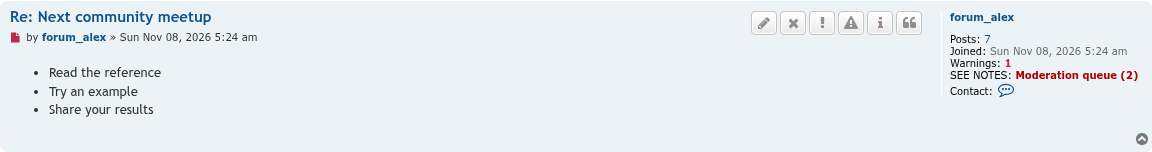
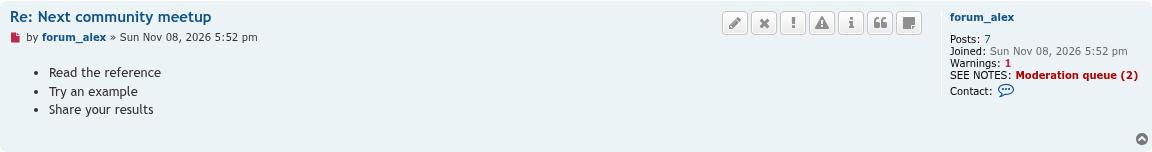
Replace NONE with a notes button next to posts and on profiles (#8)
* Replace NONE with a notes button next to posts and on profiles

The SEE NOTES line now shows only while a member has a current
reason. Staff get a Moderator notes button with the post buttons and a
link with the profile's user statistics, for every member; without a
current reason they open the Give a reason form. phpBB 4.0 draws post
button icons with Icon(), so the button has a template per branch.

* Retake screenshots for the notes button; add the 11/08/2026 update gallery

---------

diff --git a/styles/all/template/seenotes_reason_link.html b/styles/all/template/seenotes_reason_link.html
@@ -1,2 +1,2 @@
-{# The reason, or NONE, as a link to the notes. Pass the row with the SEENOTES_* values as "sn". #}
-{% if sn.U_SEENOTES %}<a href="{{ sn.U_SEENOTES }}"{% else %}<span{% endif %} class="seenotes-reason{% if sn.S_SEENOTES_NONE %} seenotes-none{% endif %}"{% if not sn.S_SEENOTES_NONE %} style="color: #{{ sn.SEENOTES_COLOR }};"{% endif %}{% if sn.SEENOTES_DESCRIPTION %} title="{{ sn.SEENOTES_DESCRIPTION }}"{% endif %}>{{ sn.SEENOTES_REASON }}{% if not sn.S_SEENOTES_NONE %} <span aria-hidden="true">({{ sn.SEENOTES_COUNT }})</span>{% endif %}<span class="sr-only">{% if not sn.S_SEENOTES_NONE %}, {{ sn.SEENOTES_COUNT_TEXT }}{% if sn.SEENOTES_DESCRIPTION %}: {{ sn.SEENOTES_DESCRIPTION }}{% endif %}{% endif %}{% if sn.U_SEENOTES %}. {{ sn.SEENOTES_LINK_TEXT }}{% endif %}</span>{% if sn.U_SEENOTES %}</a>{% else %}</span>{% endif %}
+{# The reason as a link to the notes. Pass the row with the SEENOTES_* values as "sn". #}
+{% if sn.U_SEENOTES %}<a href="{{ sn.U_SEENOTES }}"{% else %}<span{% endif %} class="seenotes-reason" style="color: #{{ sn.SEENOTES_COLOR }};"{% if sn.SEENOTES_DESCRIPTION %} title="{{ sn.SEENOTES_DESCRIPTION }}"{% endif %}>{{ sn.SEENOTES_REASON }} <span aria-hidden="true">({{ sn.SEENOTES_COUNT }})</span><span class="sr-only">, {{ sn.SEENOTES_COUNT_TEXT }}{% if sn.SEENOTES_DESCRIPTION %}: {{ sn.SEENOTES_DESCRIPTION }}{% endif %}{% if sn.U_SEENOTES %}. {{ lang('SEENOTES_OPEN_NOTES') }}{% endif %}</span>{% if sn.U_SEENOTES %}</a>{% else %}</span>{% endif %}

diff --git a/styles/all/template/seenotes_reason.html b/styles/all/template/seenotes_reason.html
@@ -1,5 +1,5 @@
 {# The reason line. Pass the row with the SEENOTES_* values as "sn". #}
-<span class="seenotes-line{% if sn.S_SEENOTES_NONE %} seenotes-line-none{% endif %}"{% if not sn.S_SEENOTES_NONE %} style="color: #{{ sn.SEENOTES_COLOR }};"{% endif %}>
+<span class="seenotes-line" style="color: #{{ sn.SEENOTES_COLOR }};">
 	<strong>{{ sn.SEENOTES_LABEL }}{{ lang('COLON') }}</strong>
 	<strong>{% include '@phpbbmodders_seenotes/seenotes_reason_link.html' with {'sn': sn} only %}</strong>
 </span>

diff --git a/styles/all/template/event/mcp_post_text_before.html b/styles/all/template/event/mcp_post_text_before.html
@@ -1,5 +1,5 @@
 {% if S_SEENOTES %}
-	<p class="post-notice seenotes-notice{% if S_SEENOTES_NONE %} seenotes-notice-none{% endif %}">
+	<p class="post-notice seenotes-notice">
 		<i class="icon fa-sticky-note fa-fw" aria-hidden="true"></i>
 		{% include '@phpbbmodders_seenotes/seenotes_reason.html' with {'sn': _context} only %}
 	</p>

diff --git a/styles/all/template/event/viewtopic_body_post_buttons_after.html b/styles/all/template/event/viewtopic_body_post_buttons_after.html
@@ -1,0 +1,4 @@
+{% if postrow.U_SEENOTES_NOTES %}
+	{# phpBB 4.0 draws post button icons with Icon(), which phpBB 3.3 cannot compile, so each branch has its own button #}
+	{% include S_SEENOTES_PHPBB4 ? '@phpbbmodders_seenotes/seenotes_post_button_40.html' : '@phpbbmodders_seenotes/seenotes_post_button_33.html' %}
+{% endif %}

diff --git a/styles/all/template/seenotes_post_button_33.html b/styles/all/template/seenotes_post_button_33.html
@@ -1,0 +1,5 @@
+<li>
+	<a href="{{ postrow.U_SEENOTES_NOTES }}" title="{{ lang('SEENOTES_NOTES_BUTTON')|e('html_attr') }}" class="button button-icon-only">
+		<i class="icon fa-sticky-note fa-fw" aria-hidden="true"></i><span class="sr-only">{{ lang('SEENOTES_NOTES_BUTTON') }}</span>
+	</a>
+</li>

diff --git a/styles/all/template/seenotes_post_button_40.html b/styles/all/template/seenotes_post_button_40.html
@@ -1,0 +1,5 @@
+<li>
+	<a href="{{ postrow.U_SEENOTES_NOTES }}" title="{{ lang('SEENOTES_NOTES_BUTTON')|e('html_attr') }}" class="button button-icon-only">
+		{{ Icon('font', 'note-sticky', lang('SEENOTES_NOTES_BUTTON'), post_buttons_hide_text, 'fas c-button-icon') }}
+	</a>
+</li>

diff --git a/styles/all/theme/seenotes.css b/styles/all/theme/seenotes.css
@@ -75,8 +75,3 @@
 	min-height: 0;
 	overflow-x: auto;
 }
-
-/* NONE: no current reason, so a quieter line in the normal text color */
-.seenotes-notice-none {
-	border-left-color: rgba(128, 128, 128, 0.5);
-}

diff --git a/styles/all/template/event/memberlist_view_user_statistics_after.html b/styles/all/template/event/memberlist_view_user_statistics_after.html
@@ -1,0 +1,4 @@
+{% if U_SEENOTES_NOTES %}
+	<dt>{{ lang('SEENOTES_NOTES_BUTTON') }}{{ lang('COLON') }}</dt>
+	<dd><a href="{{ U_SEENOTES_NOTES }}">{{ lang('SEENOTES_VIEW_NOTES') }}</a></dd>
+{% endif %}

diff --git a/event/listener.php b/event/listener.php
@@ -142,24 +142,31 @@ class listener implements EventSubscriberInterface
 	}
 
 	/**
-	 * Load the stylesheet for staff who may see reasons
+	 * Load the stylesheet for staff who may see reasons, and tell the
+	 * templates which phpBB branch draws the post buttons
 	 *
 	 * @return void
 	 */
 	public function load_stylesheet()
 	{
-		$this->template->assign_var('S_SEENOTES_CSS', $this->manager->can('view'));
+		$this->template->assign_vars([
+			'S_SEENOTES_CSS'	=> $this->manager->can('view'),
+			// phpBB 4.0 draws post button icons with its Icon() function
+			'S_SEENOTES_PHPBB4'	=> phpbb_version_compare(PHPBB_VERSION, '4.0.0-a1', '>='),
+		]);
 	}
 
 	/**
-	 * Show the member's current reason with the profile details
+	 * Show the member's current reason with the profile details, and the
+	 * link to their notes with the user statistics
 	 *
 	 * @param data $event
 	 * @return void
 	 */
 	public function show_on_profile(data $event)
 	{
-		$this->template->assign_vars($this->get_display_vars((int) $event['member']['user_id']));
+		$user_id = (int) $event['member']['user_id'];
+		$this->template->assign_vars(array_merge($this->get_display_vars($user_id), $this->get_button_vars($user_id)));
 	}
 
 	/**
@@ -178,14 +185,16 @@ class listener implements EventSubscriberInterface
 	}
 
 	/**
-	 * Show the poster's current reason in their mini-profile
+	 * Show the poster's current reason in their mini-profile, and the notes
+	 * button with the post buttons
 	 *
 	 * @param data $event
 	 * @return void
 	 */
 	public function show_on_post(data $event)
 	{
-		$vars = $this->get_display_vars((int) $event['poster_id']);
+		$poster_id = (int) $event['poster_id'];
+		$vars = array_merge($this->get_display_vars($poster_id), $this->get_button_vars($poster_id));
 		if ($vars)
 		{
 			$event['post_row'] = array_merge($event['post_row'], $vars);
@@ -281,51 +290,80 @@ class listener implements EventSubscriberInterface
 	}
 
 	/**
-	 * Template variables for a member's current reason, or "NONE" when they
-	 * have none, for viewers who may see it
+	 * Template variables for a member's current reason, for viewers who may
+	 * see it
 	 *
 	 * @param int $user_id
-	 * @return array Empty when the viewer may not see reasons
+	 * @return array Empty when there is nothing to show
 	 */
 	protected function get_display_vars($user_id)
 	{
-		if (!$user_id || $user_id == ANONYMOUS || !$this->manager->can('view'))
+		if (!$this->can_view_member($user_id))
 		{
 			return [];
 		}
 
 		$current = $this->manager->get_current_for_users([$user_id]);
-		$u_notes = $this->get_notes_url($user_id);
-
-		// No current reason: "NONE", linking to the form that gives one
 		if (!isset($current[$user_id]))
 		{
-			$can_manage = $this->manager->can('manage');
-
-			return [
-				'S_SEENOTES'			=> true,
-				'S_SEENOTES_NONE'		=> true,
-				'SEENOTES_LABEL'		=> $this->manager->get_label(),
-				'SEENOTES_REASON'		=> $this->language->lang('SEENOTES_NONE'),
-				'SEENOTES_LINK_TEXT'	=> $this->language->lang($can_manage ? 'SEENOTES_NONE_GIVE' : 'SEENOTES_NONE_EXPLAIN'),
-				'U_SEENOTES'			=> ($u_notes && $can_manage) ? $u_notes . '#seenotes-add-entry' : $u_notes,
-			];
+			return [];
 		}
 
 		$entry = $current[$user_id];
 
 		return [
 			'S_SEENOTES'			=> true,
-			'S_SEENOTES_NONE'		=> false,
 			'SEENOTES_LABEL'		=> $this->manager->get_label(),
 			'SEENOTES_REASON'		=> $entry['reason_title'],
 			'SEENOTES_DESCRIPTION'	=> $entry['reason_description'],
 			'SEENOTES_COLOR'		=> $this->manager->clean_color($entry['reason_color']),
 			'SEENOTES_COUNT'		=> (int) $entry['note_count'],
 			'SEENOTES_COUNT_TEXT'	=> $this->language->lang('SEENOTES_NOTE_COUNT', (int) $entry['note_count']),
-			'SEENOTES_LINK_TEXT'	=> $this->language->lang('SEENOTES_OPEN_NOTES'),
-			'U_SEENOTES'			=> $u_notes,
+			'U_SEENOTES'			=> $this->get_notes_url($user_id),
 		];
+	}
+
+	/**
+	 * Template variables for the notes button next to posts and the link on
+	 * the profile, shown to staff whether or not the member has a reason.
+	 * Without a current reason, staff who may give one land on that form.
+	 *
+	 * @param int $user_id
+	 * @return array Empty when the viewer may not see notes or reach them
+	 */
+	protected function get_button_vars($user_id)
+	{
+		if (!$this->can_view_member($user_id))
+		{
+			return [];
+		}
+
+		$u_notes = $this->get_notes_url($user_id);
+		if ($u_notes === '')
+		{
+			return [];
+		}
+
+		$current = $this->manager->get_current_for_users([$user_id]);
+		if (!isset($current[$user_id]) && $this->manager->can('manage'))
+		{
+			$u_notes .= '#seenotes-add-entry';
+		}
+
+		return [
+			'U_SEENOTES_NOTES'	=> $u_notes,
+		];
+	}
+
+	/**
+	 * Whether the viewer may see See Notes for this member
+	 *
+	 * @param int $user_id
+	 * @return bool
+	 */
+	protected function can_view_member($user_id)
+	{
+		return $user_id && $user_id != ANONYMOUS && $this->manager->can('view');
 	}
 
 	/**

diff --git a/tests/event/listener_test.php b/tests/event/listener_test.php
@@ -127,9 +127,10 @@ class listener_test extends \phpbb_test_case
 		$this->assertSame('Moderation queue', $row['SEENOTES_REASON']);
 		$this->assertSame(2, $row['SEENOTES_COUNT']);
 		$this->assertStringContainsString('mode=notes&amp;u=3', $row['U_SEENOTES']);
+		$this->assertStringEndsWith('u=3', $row['U_SEENOTES_NOTES']);
 	}
 
-	public function test_post_row_shows_none_without_a_current_reason()
+	public function test_post_row_without_a_current_reason_gets_only_the_button()
 	{
 		$this->manager->method('can')->willReturn(true);
 		$this->manager->method('get_current_for_users')->willReturn([]);
@@ -143,9 +144,8 @@ class listener_test extends \phpbb_test_case
 		$this->get_listener()->show_on_post($event);
 
 		$row = $event['post_row'];
-		$this->assertTrue($row['S_SEENOTES_NONE']);
-		$this->assertSame('SEENOTES_NONE', $row['SEENOTES_REASON']);
-		$this->assertStringEndsWith('u=3#seenotes-add-entry', $row['U_SEENOTES']);
+		$this->assertArrayNotHasKey('S_SEENOTES', $row);
+		$this->assertStringEndsWith('u=3#seenotes-add-entry', $row['U_SEENOTES_NOTES']);
 	}
 
 	public function test_other_acp_users_modes_are_ignored()

diff --git a/language/en/common.php b/language/en/common.php
@@ -29,9 +29,8 @@ $lang = array_merge($lang, [
 		2	=> '%d notes',
 	],
 	'SEENOTES_OPEN_NOTES'	=> 'Read the moderator notes about this member',
-	'SEENOTES_NONE'			=> 'NONE',
-	'SEENOTES_NONE_GIVE'	=> 'This member has no current reason. Give them one',
-	'SEENOTES_NONE_EXPLAIN'	=> 'This member has no current reason. Read the moderator notes about them',
+	'SEENOTES_NOTES_BUTTON'	=> 'Moderator notes',
+	'SEENOTES_VIEW_NOTES'	=> 'View or add moderator notes',
 
 	'LOG_SEENOTES_ENTRY_ADDED'		=> '<strong>Gave a member a See Notes reason</strong><br>» %1$s, to %2$s',
 	'LOG_SEENOTES_CURRENT_SET'		=> '<strong>Changed a member’s current See Notes reason</strong><br>» %1$s, for %2$s',

diff --git a/README.md b/README.md
@@ -10,7 +10,8 @@ Lets moderators mark a member with a staff-only reason from a list the administr
 - **ACP → Extensions → See Notes → Reasons**: administrators set up the list of reasons, each with a description, a color, and an on/off switch. Seven starter reasons (Moderation queue, Spam watch, Warez, Conduct, Possible returning member, Staff in contact, General) are added on first enable, ready to edit or remove. A switched-off reason can't be given any more, but members who have it keep it and its notes.
 - **MCP → Moderator notes** and **ACP → Manage users → Moderator notes**: give a member a reason, choose which reason is current (or none), and add notes under each reason.
 - **Notes use BBCode**, smilies and links, following the board's private message settings, so a PM sent to the member can be pasted into a quote for other staff.
-- **Only staff see it.** The current reason shows as "SEE NOTES: Moderation queue (3)" on the member's profile, next to their posts, on the MCP post, report and approval queue pages, and in the MCP topic view. It links to the notes. A member with no current reason shows "SEE NOTES: NONE", which links straight to the form that gives one.
+- **Only staff see it.** The current reason shows as "SEE NOTES: Moderation queue (3)" on the member's profile, next to their posts, on the MCP post, report and approval queue pages, and in the MCP topic view. It links to the notes, and shows only while the member has a current reason.
+- **A notes button** next to every post (beside phpBB's Warn button) and a **Moderator notes** link on every profile take staff straight to a member's notes, or to the form that gives a reason when the member has none.
 - The member's latest **phpBB user notes** (warnings, bans and so on) show read-only on the same page.
 - Separate permissions for seeing, adding, editing notes, deleting notes and deleting a reason entry, with matching administrator permissions.
 - Every change goes into the moderator log. Deleting a reason with all its entries is off by default, and needs the reason's name typed to confirm.
@@ -23,7 +24,7 @@ The full design is in [`docs/design.md`](docs/design.md).
 <table>
 <tr>
 <td><a href="docs/images/screenshots/seenotes-mcp-notes.png"><img src="docs/images/screenshots/seenotes-mcp-notes.png" width="440" height="591" alt="MCP Moderator notes page for a member"></a></td>
-<td><a href="docs/images/screenshots/seenotes-mcp-post.png"><img src="docs/images/screenshots/seenotes-mcp-post.png" width="440" height="300" alt="MCP post details with a SEE NOTES notice"></a><br><br><a href="docs/images/screenshots/seenotes-viewtopic.png"><img src="docs/images/screenshots/seenotes-viewtopic.png" width="440" height="58" alt="The reason in a post's mini-profile"></a><br><br><a href="docs/images/screenshots/seenotes-profile-none.png"><img src="docs/images/screenshots/seenotes-profile-none.png" width="440" height="113" alt="SEE NOTES: NONE on a profile"></a></td>
+<td><a href="docs/images/screenshots/seenotes-mcp-post.png"><img src="docs/images/screenshots/seenotes-mcp-post.png" width="440" height="300" alt="MCP post details with a SEE NOTES notice"></a><br><br><a href="docs/images/screenshots/seenotes-viewtopic.png"><img src="docs/images/screenshots/seenotes-viewtopic.png" width="440" height="58" alt="The reason in a post's mini-profile"></a><br><br><a href="docs/images/screenshots/seenotes-post-button.png"><img src="docs/images/screenshots/seenotes-post-button.png" width="440" height="64" alt="The Moderator notes button next to a post by a member without a reason"></a></td>
 </tr>
 </table>
 
